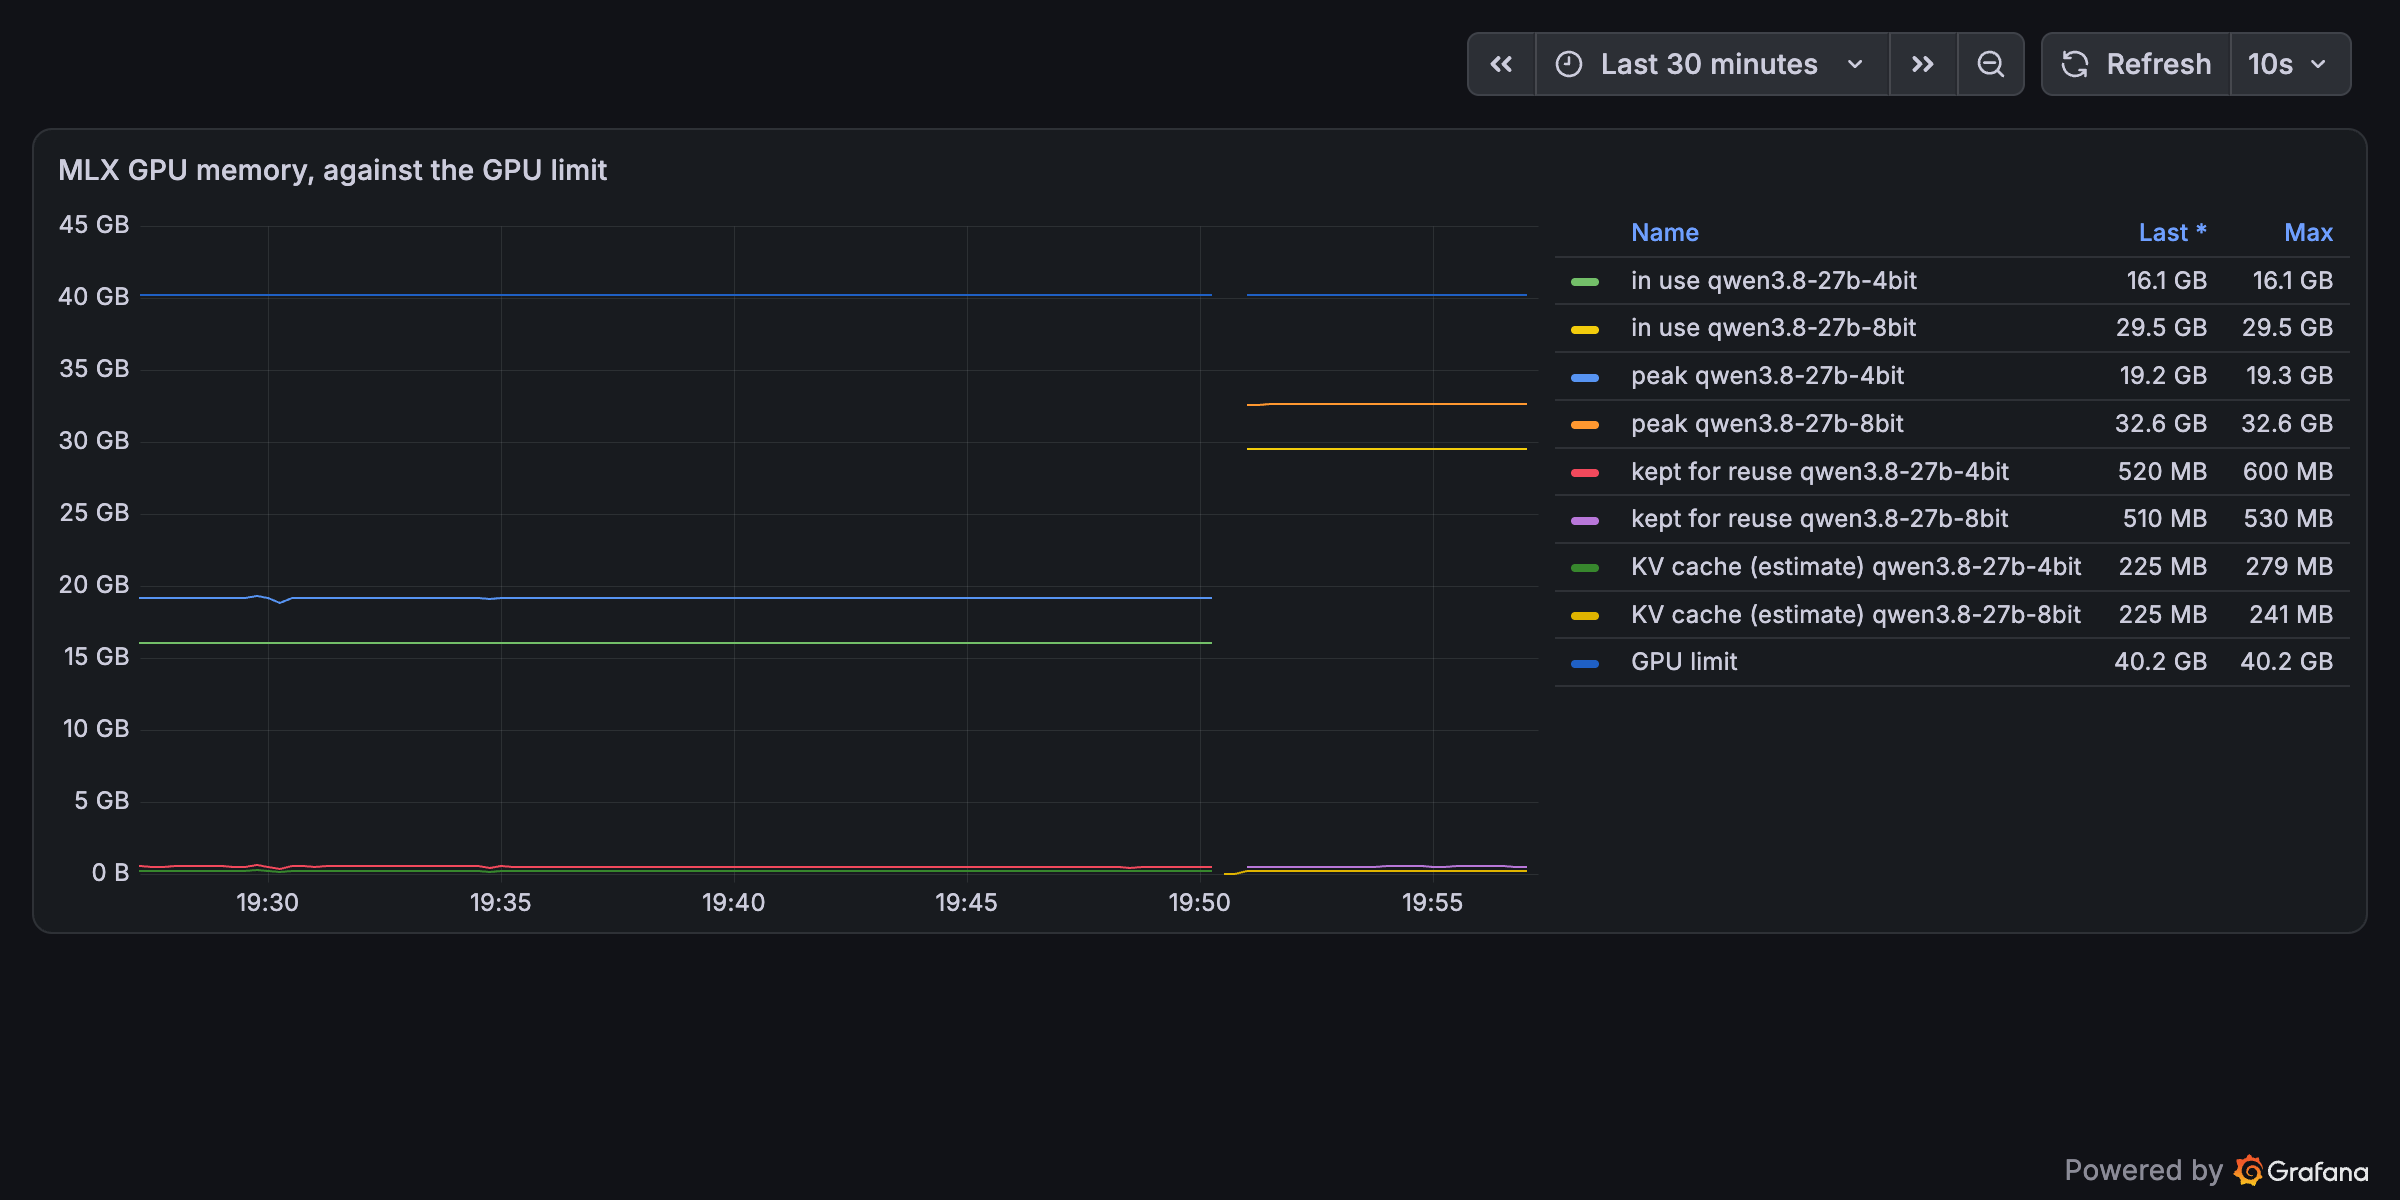
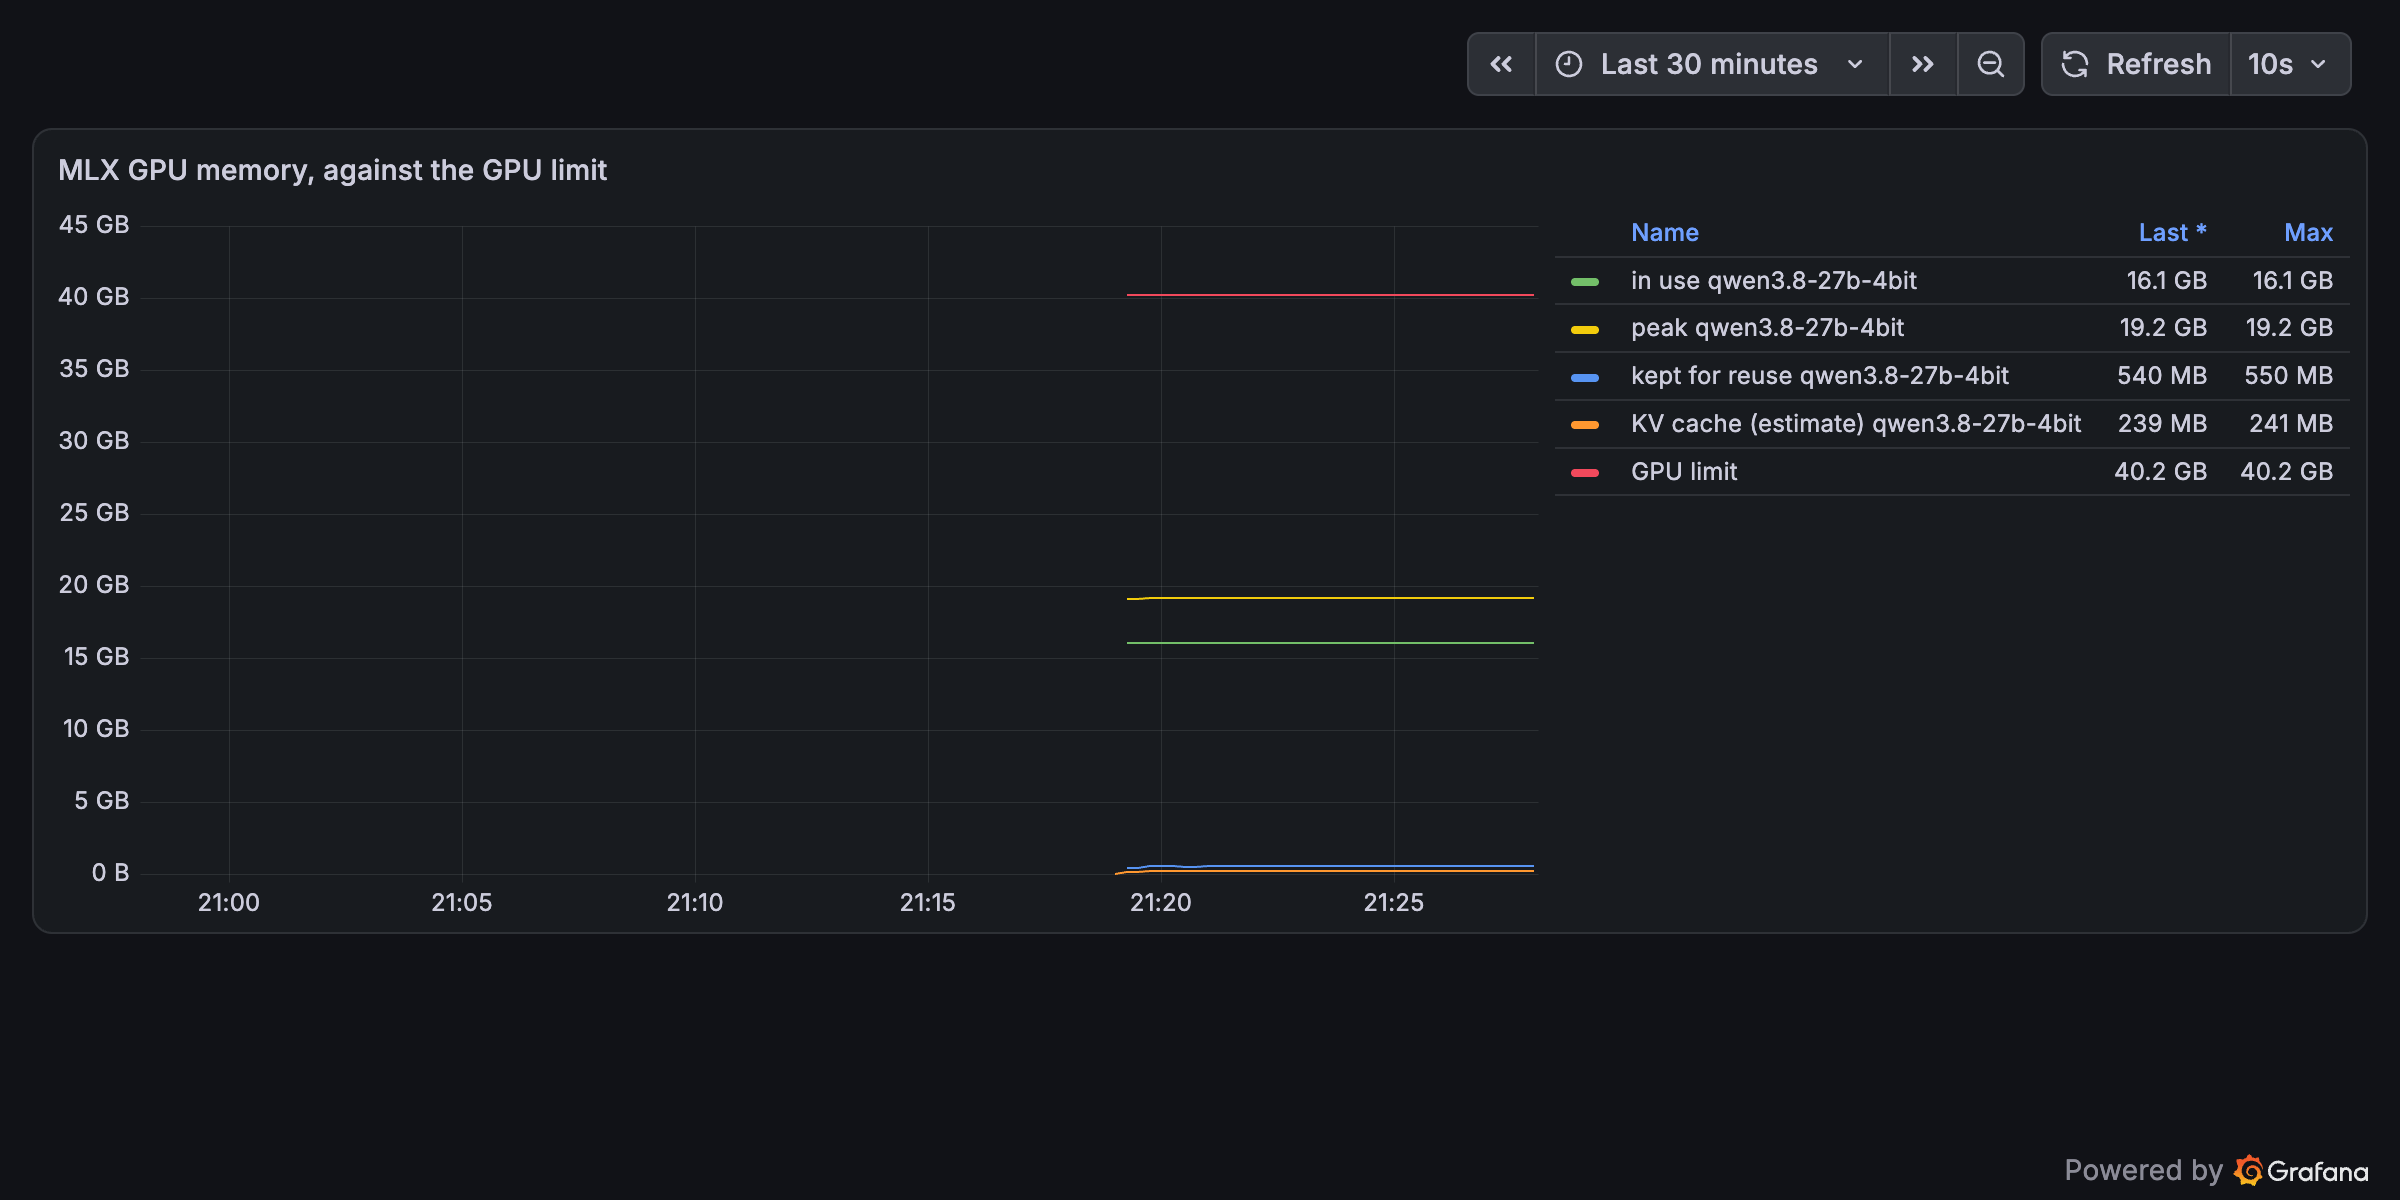
Show only models reporting now in the at-a-glance tiles
Tiles took each model's last value anywhere in the time range, so a finished
run lingered for half an hour and squeezed two model names into every tile.
Tiles now ask for the current value only: a finished run drops off at once,
and the usual single run gets one big number again. The trend strips under
the tiles and the charts keep the full history. Screenshots retaken.

diff --git a/src/inference_vitals/monitor.py b/src/inference_vitals/monitor.py
@@ -150,7 +150,7 @@ def _strip(tile: dict) -> dict:
     """A frameless line chart under a tile: the same numbers over time, no title, axes or legend."""
     g = tile["gridPos"]
     s = _panel("", [], tile["fieldConfig"]["defaults"]["unit"], g["x"], g["y"] + g["h"], g["w"], STRIP_H)
-    s["targets"] = [dict(t) for t in tile["targets"]]
+    s["targets"] = [{**t, "instant": False, "range": True} for t in tile["targets"]]  # the history
     s["transparent"] = True
     stepped = any(m["type"] == "value" for m in tile["fieldConfig"]["defaults"]["mappings"])
     # Quiet grey, so the eye goes to the number; Grafana cannot fade a graph drawn inside the tile itself.
@@ -184,6 +184,8 @@ def _stat(
         steps += [{"color": "orange", "value": warn}] if warn is not None else []
         steps += [{"color": "red", "value": bad}] if bad is not None else []
     p = _panel(title, [(expr, legend)], unit, x, y, w, TILE_H, "stat")
+    for t in p["targets"]:  # now, not "last value in the time range": a finished run drops off at once
+        t["instant"], t["range"] = True, False
     p["fieldConfig"]["defaults"]["thresholds"] = {"mode": "absolute", "steps": steps}
     # A tile with nothing to show yet reads "–" in the text colour, not "No data" in the alarm colour.
     p["fieldConfig"]["defaults"]["noValue"] = "–"

diff --git a/tests/test_monitor.py b/tests/test_monitor.py
@@ -216,3 +216,12 @@ def test_folded_charts_never_overlap():
             assert not (mine & cells), (row["title"], p["title"])
             assert g["x"] + g["w"] <= 24
             cells |= mine
+
+
+def test_tiles_show_only_what_is_reporting_now_and_strips_keep_the_history():
+    panels = monitor.dashboard()["panels"]
+    for p in panels:
+        if p["type"] == "stat":  # a finished run drops off at once, so a tile rarely holds two models
+            assert all(t.get("instant") is True and t.get("range") is False for t in p["targets"]), p["title"]
+        if p["type"] == "timeseries":
+            assert not any(t.get("instant") for t in p["targets"]), p["title"]
